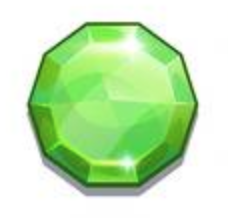
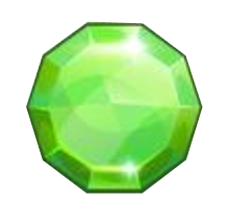
updated crystal images, working on less code

diff --git a/assets/javascript/game.js b/assets/javascript/game.js
@@ -55,7 +55,11 @@ function setup(){
   $("#crystal4").html(crystal4);
 };
 
-setup();
+
+
+// below allows EACH crystal to be clicked and add the random value assign from above to add to the score
+// then compare score to random number and trigger win/lose
+// and trigger setup fuction to reset the game
 
 $("#crystal1").on("click" , function(){
   // var crystal1Value = ($(this).attr("data-crystal1value"));
@@ -64,12 +68,12 @@ $("#crystal1").on("click" , function(){
   score += crystalNum1;
   $("#scoreBox").html(score);
   if(score === randomNumber){
-    $("#winLoseBox").html("You Win!")
+    $("#result").html("You Win!")
     wins++
     $("#winCount").html(wins);
     setup();
   }else if(score > randomNumber){
-    $("#winLoseBox").html("You Lose :(")
+    $("#result").html("You Lose :(")
     loses++
     $("#loseCount").html(loses);
     setup();
@@ -82,12 +86,12 @@ $("#crystal2").on("click" , function(){
   score += crystalNum2;
   $("#scoreBox").html(score);
   if(score === randomNumber){
-    $("#winLoseBox").html("You Win!")
+    $("#result").html("You Win!")
     wins++
     $("#winCount").html(wins);
     setup();
   }else if(score > randomNumber){
-    $("#winLoseBox").html("You Lose :(")
+    $("#result").html("You Lose :(")
     loses++
     $("#loseCount").html(loses);
     setup();
@@ -100,12 +104,12 @@ $("#crystal3").on("click" , function(){
   score += crystalNum3;
   $("#scoreBox").html(score);
   if(score === randomNumber){
-    $("#winLoseBox").html("You Win!")
+    $("#result").html("You Win!")
     wins++
     $("#winCount").html(wins);
     setup();
   }else if(score > randomNumber){
-    $("#winLoseBox").html("You Lose :(")
+    $("#result").html("You Lose :(")
     loses++
     $("#loseCount").html(loses);
     setup();
@@ -118,17 +122,40 @@ $("#crystal4").on("click" , function(){
   score += crystalNum4;
   $("#scoreBox").html(score);
   if(score === randomNumber){
-    $("#winLoseBox").html("You Win!")
+    $("#result").html("You Win!")
     wins++
     $("#winCount").html(wins);
     setup();
   }else if(score > randomNumber){
-    $("#winLoseBox").html("You Lose :(")
+    $("#result").html("You Lose :(")
     loses++
     $("#loseCount").html(loses);
     setup();
   }
 });
+
+setup();
+
+//idea below to condense
+// $("#crystals").click(function(){
+//   $("#crystal1")
+//   $("#crystal2")
+//   $("#crystal3")
+//   $("#crystal4")
+//   score += crystalNum4;
+//   $("#scoreBox").html(score);
+//   if(score === randomNumber){
+//     $("#winLoseBox").html("You Win!")
+//     wins++
+//     $("#winCount").html(wins);
+//     setup();
+//   }else if(score > randomNumber){
+//     $("#winLoseBox").html("You Lose :(")
+//     loses++
+//     $("#loseCount").html(loses);
+//     setup();
+//   }
+// });
 
 
 

diff --git a/index.html b/index.html
@@ -16,7 +16,7 @@
           <div class="instructions">
             <h3>Instructions:</h3>
             <p>You will be given a random number at the start of the game.</p>
-            <p>There are four crystals below. By clicking on a crystal you will add a specific amount of points to your score.</p>
+            <p>There are four crystals to the right. By clicking on a crystal you will add a specific amount of points to your score.</p>
             <p>You win the game by matching your total points to the random number. You lose the game if your total score goes above the random number.</p>
             <p>The value of each crystal is hidden from you until you click on it.</p>
             <p>Each time the game starts, the game will change the value of each crystal.</p>
@@ -29,7 +29,7 @@
               <div id="randomNumber"></div>
             </div>
             <div class="col-md-6">
-              <div id="winLoseBox"></div> <!--Win/Lose Message -->
+              <div id="winLoseBox">Last Game: <span id="result"></span></div> <!--Win/Lose Message -->
               <div id="winLoseBox">Wins: <span id="winCount"></span></div>
               <div id="winLoseBox">Loses: <span id="loseCount"></span></div>
             </div>

diff --git a/assets/css/style.css b/assets/css/style.css
@@ -1,9 +1,16 @@
 h1{
+  color: white;
   padding: 20px 0px;
   text-align: center;
 }
 
+body{ 
+  background-image: url(../images/darkness.png);
+  
+}
+
 .instructions {
+  margin-bottom: 50px;
   color: white;
   background-color: rgb(26, 169, 226);
   width: 90%;
@@ -19,7 +26,7 @@ h1{
 }
 
 #winLoseBox{
-  padding: 10px 20px 25px 20px;
+  padding: 14px 20px 14px 20px;
   color: white;
   background-color: green;
 }
@@ -39,6 +46,7 @@ h1{
   background-color: rgb(236, 13, 13);
 }
 
-#crystal1{
-  width: 50px;
+img{
+  align-content: center;
+  width: 100%;
 }
